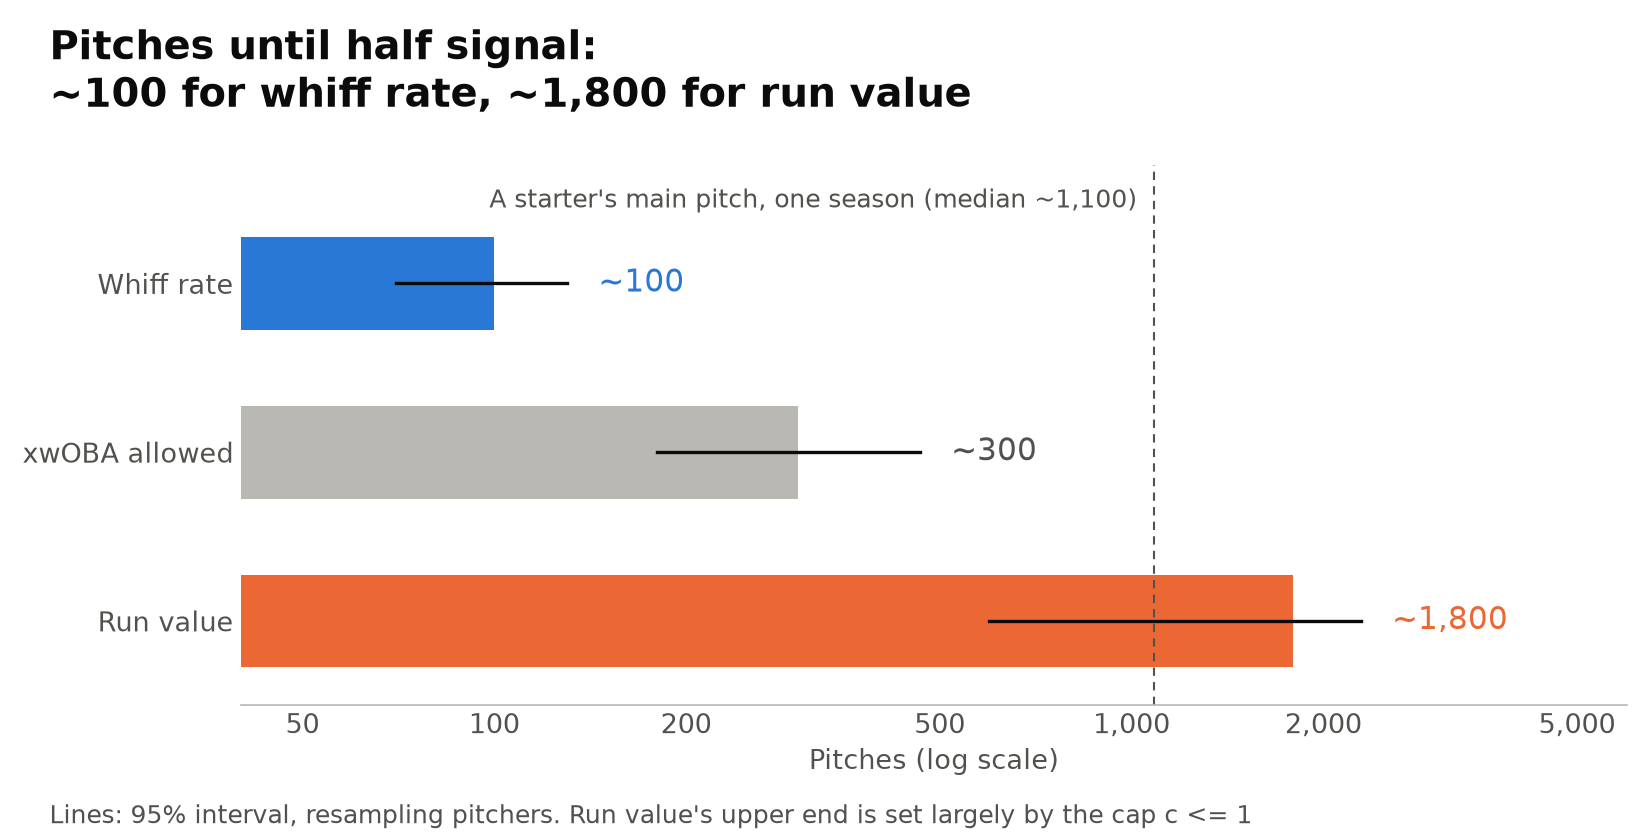
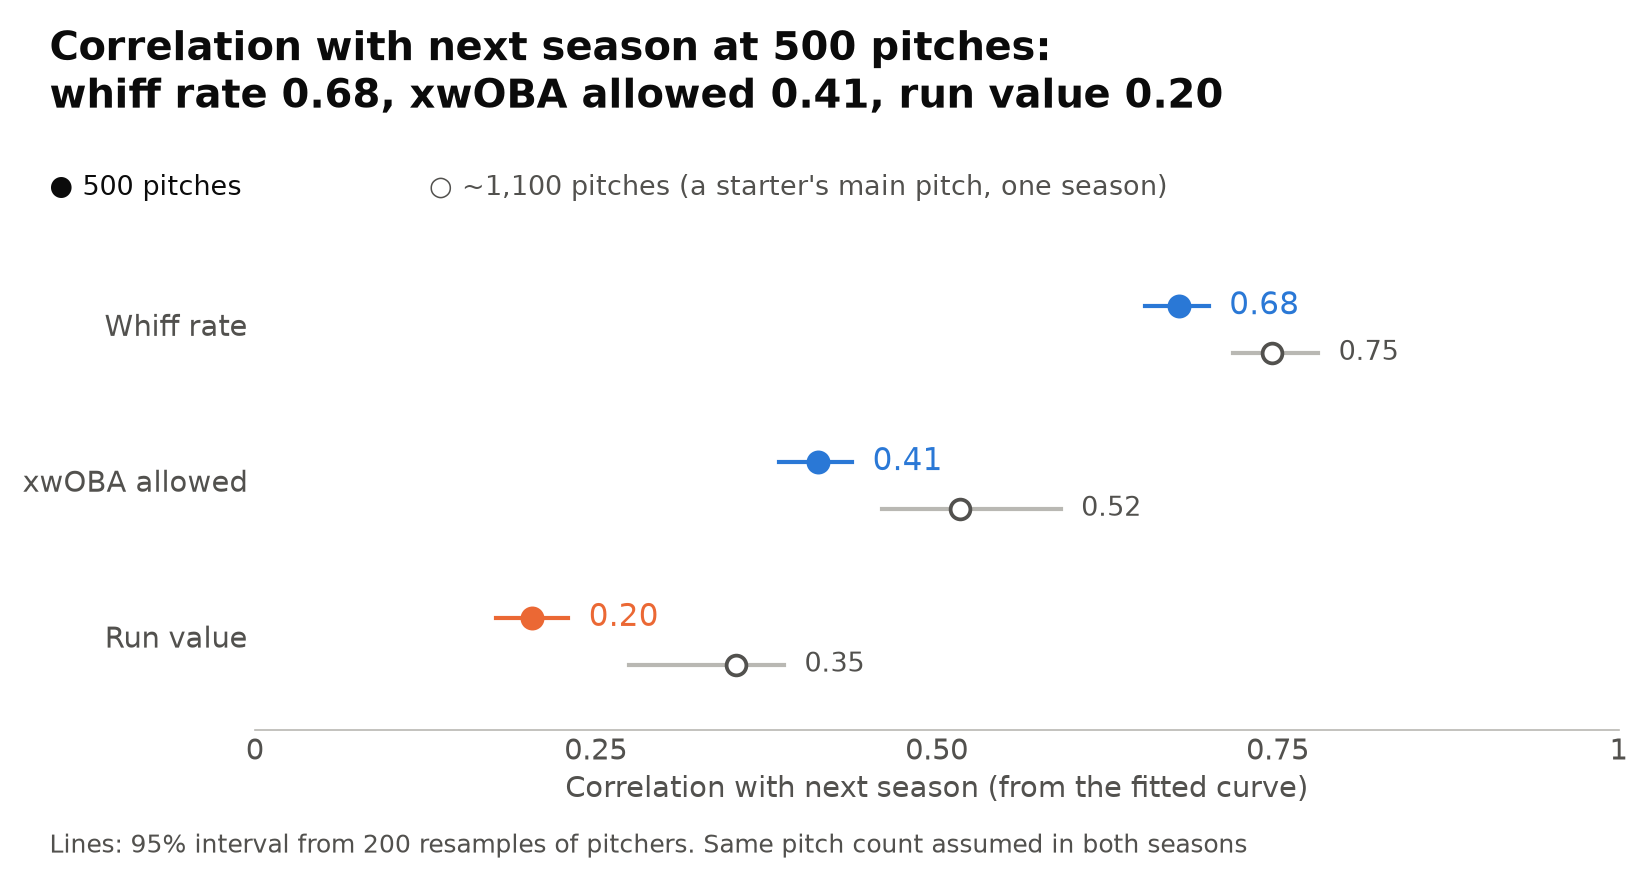
analysis: pitch carryover fit at fixed pitch counts, figure 8 redrawn (#44)
pitch_carryover_fit.py rebuilds the c*n/(n+k) fit from the article (12 equal
groups, 200 pitcher resamples) and reports the correlation at 500 and 1,086
pitches, which is well pinned down even where k is not (run value: k 455 to
2,212, r(500) 0.18 to 0.23). fig8.py draws it from pitch_carryover_fit.json.

Claude-Session: https://claude.ai/code/session_013dut8wroSJTVUEu9jYr6BF

diff --git a/analysis/pitch_carryover/fig8.py b/analysis/pitch_carryover/fig8.py
@@ -1,0 +1,64 @@
+# Figure 8 of the pitch carryover article: fitted year-to-year correlation at a fixed
+# pitch count (500, and 1,086 = a starter's main pitch over one season), from
+# pitch_carryover_fit.json written by pitch_carryover_fit.py (the fit). Style as figs3.py.
+import json
+import sys
+
+import matplotlib
+matplotlib.use("Agg")
+import matplotlib.pyplot as plt
+
+BLUE, ORANGE, GRAY, INK, SUB = "#2a78d6", "#eb6834", "#b9b8b3", "#0b0b0b", "#52514e"
+fit = json.load(open(sys.argv[1] if len(sys.argv) > 1 else "pitch_carryover_fit.json"))
+OUT = sys.argv[2] if len(sys.argv) > 2 else "."
+M = ["whiff_rate", "xwoba_allowed", "run_value_per_100"]
+T = {
+    "ja": dict(font="Noto Sans CJK JP",
+               title="500 球投げたときの翌年との相関：\n空振り率 0.68、被 xwOBA 0.41、run value 0.20",
+               lab=["空振り率", "被 xwOBA", "run value"],
+               k500="500 球", kfull="約 1,100 球（先発の主な球種 1 年分）",
+               x="翌年との相関（式から計算した値）",
+               note="横線は投手単位で選び直して 200 回計算した 95% 区間。2 シーズンとも同じ球数を投げたとした値"),
+    "en": dict(font="DejaVu Sans",
+               title="Correlation with next season at 500 pitches:\nwhiff rate 0.68, xwOBA allowed 0.41, run value 0.20",
+               lab=["Whiff rate", "xwOBA allowed", "Run value"],
+               k500="500 pitches", kfull="~1,100 pitches (a starter's main pitch, one season)",
+               x="Correlation with next season (from the fitted curve)",
+               note="Lines: 95% interval from 200 resamples of pitchers. Same pitch count assumed in both seasons"),
+}
+
+
+def base(ax):
+    for s in ("top", "right", "left"):
+        ax.spines[s].set_visible(False)
+    ax.spines["bottom"].set_color(GRAY)
+    ax.tick_params(colors=SUB, length=0, labelsize=14)
+
+
+for lang, t in T.items():
+    plt.rcParams["font.family"] = t["font"]
+    f, ax = plt.subplots(figsize=(11, 5.8), dpi=150)
+    ys = [2, 1, 0]
+    for y, m, lab in zip(ys, M, t["lab"]):
+        d = fit[m]
+        col = ORANGE if m == "run_value_per_100" else BLUE
+        # 500 pitches: solid marker; ~1,100: hollow marker, slightly lower
+        ax.plot(d["r500_95"], [y + 0.12] * 2, color=col, lw=2)
+        ax.scatter([d["r500"]], [y + 0.12], s=110, color=col, zorder=3)
+        ax.text(d["r500_95"][1] + 0.015, y + 0.12, f"{d['r500']:.2f}", va="center", fontsize=15, color=col)
+        ax.plot(d["rfull_95"], [y - 0.18] * 2, color=GRAY, lw=2)
+        ax.scatter([d["rfull"]], [y - 0.18], s=90, facecolor="white", edgecolor=SUB, lw=1.8, zorder=3)
+        ax.text(d["rfull_95"][1] + 0.015, y - 0.18, f"{d['rfull']:.2f}", va="center", fontsize=13, color=SUB)
+    ax.set_yticks(ys, t["lab"], fontsize=15)
+    ax.set_xlim(0, 1); ax.set_xticks([0, 0.25, 0.5, 0.75, 1.0], ["0", "0.25", "0.50", "0.75", "1"])
+    ax.set_ylim(-0.6, 2.6)
+    ax.set_xlabel(t["x"], fontsize=14, color=SUB)
+    base(ax)
+    f.text(0.03, 0.97, t["title"], fontsize=19, weight="bold", color=INK, va="top")
+    f.text(0.03, 0.80, "● " + t["k500"], fontsize=13, color=INK, va="top")
+    f.text(0.22 if lang == "ja" else 0.26, 0.80, "○ " + t["kfull"], fontsize=13, color=SUB, va="top")
+    f.text(0.03, 0.02, t["note"], fontsize=12, color=SUB)
+    f.tight_layout(rect=(0, 0.05, 1, 0.76))
+    f.savefig(f"{OUT}/pitch_carryover_8_{lang}.png")
+    plt.close(f)
+print("ok")

diff --git a/analysis/pitch_carryover/pitch_carryover_fit.py b/analysis/pitch_carryover/pitch_carryover_fit.py
@@ -1,0 +1,79 @@
+"""Rebuild the c*n/(n+k) fit from the pitch carryover article and report r at fixed pitch counts.
+
+Pairs: same pitcher and pitch type in consecutive seasons, 100+ pitches in both,
+second season finished; value minus the season x pitch-type mean (pitches >= 100).
+Fit: 12 equal-size groups by the smaller pitch count; r_pred = c * mean(sqrt(s1*s2)),
+s = n/(n+k); least squares weighted by group size; c in (0, 1].
+Interval: resample pitchers with replacement.
+"""
+import json
+
+import numpy as np
+import pandas as pd
+from scipy.optimize import minimize
+
+HF = "https://huggingface.co/datasets/yasumorishima/mlb-stats/resolve/main"
+a = pd.read_parquet(f"{HF}/marts/mart_pitch_arsenal_scouting.parquet")
+partial = set(pd.read_parquet(f"{HF}/marts/mart_pitcher_season.parquet").query("is_partial").season)
+a = a[a.pitches >= 100].copy()
+METRICS = ["whiff_rate", "xwoba_allowed", "run_value_per_100"]
+for m in METRICS:
+    a[m + "_w"] = a[m] - a.groupby(["season", "pitch_type"])[m].transform("mean")
+x = a.merge(a, on=["player_id", "pitch_type"], suffixes=("1", "2"))
+x = x[(x.season2 == x.season1 + 1) & ~x.season2.isin(partial)].reset_index(drop=True)
+print("pairs", len(x))
+
+
+def fit(d, m):
+    d = d.dropna(subset=[m + "_w1", m + "_w2"]).copy()
+    d["mn"] = np.minimum(d.pitches1, d.pitches2)
+    d = d.sort_values("mn").reset_index(drop=True)
+    groups = np.array_split(np.arange(len(d)), 12)
+    obs, n1s, n2s, ws = [], [], [], []
+    for g in groups:
+        s = d.iloc[g]
+        obs.append(np.corrcoef(s[m + "_w1"], s[m + "_w2"])[0, 1])
+        n1s.append(s.pitches1.to_numpy()); n2s.append(s.pitches2.to_numpy()); ws.append(len(g))
+    obs, ws = np.array(obs), np.array(ws)
+
+    def loss(p):
+        c, lk = p
+        k = np.exp(lk)
+        pred = np.array([c * np.mean(np.sqrt(a1 / (a1 + k) * a2 / (a2 + k))) for a1, a2 in zip(n1s, n2s)])
+        return np.sum(ws * (obs - pred) ** 2)
+    best = None
+    for c0 in (0.3, 0.6, 0.9):
+        for k0 in (50, 300, 2000):
+            r = minimize(loss, [c0, np.log(k0)], bounds=[(1e-3, 1.0), (np.log(5), np.log(1e5))])
+            if best is None or r.fun < best.fun:
+                best = r
+    c, k = best.x[0], np.exp(best.x[1])
+    return c, k
+
+
+def r_at(c, k, n):
+    return c * n / (n + k)
+
+
+# A starter's main pitch over one season: median of the most-used pitch of the
+# 316 pitcher-seasons with 2,400+ pitches in 2021-2025 (from the article).
+FULL = 1086
+out = {}
+rng = np.random.default_rng(0)
+pitchers = x.player_id.unique()
+for m in METRICS:
+    c, k = fit(x, m)
+    boots = []
+    for _ in range(200):
+        pick = rng.choice(pitchers, size=len(pitchers), replace=True)
+        cnt = pd.Series(pick).value_counts()
+        d = x.merge(cnt.rename("w").rename_axis("player_id").reset_index(), on="player_id")
+        d = d.loc[d.index.repeat(d.w)]
+        cb, kb = fit(d, m)
+        boots.append((cb, kb, r_at(cb, kb, 500), r_at(cb, kb, FULL)))
+    b = np.array(boots)
+    q = lambda v: [float(x) for x in np.percentile(v, [2.5, 97.5])]
+    out[m] = {"c": c, "k": k, "k95": q(b[:, 1]), "r500": r_at(c, k, 500), "r500_95": q(b[:, 2]),
+              "rfull": r_at(c, k, FULL), "rfull_95": q(b[:, 3]), "c_at_cap": int((b[:, 0] > 0.999).sum()), "boots": len(b)}
+    print(m, {kk: (round(v, 3) if isinstance(v, float) else v) for kk, v in out[m].items()})
+json.dump(out, open("pitch_carryover_fit.json", "w"), indent=1)
